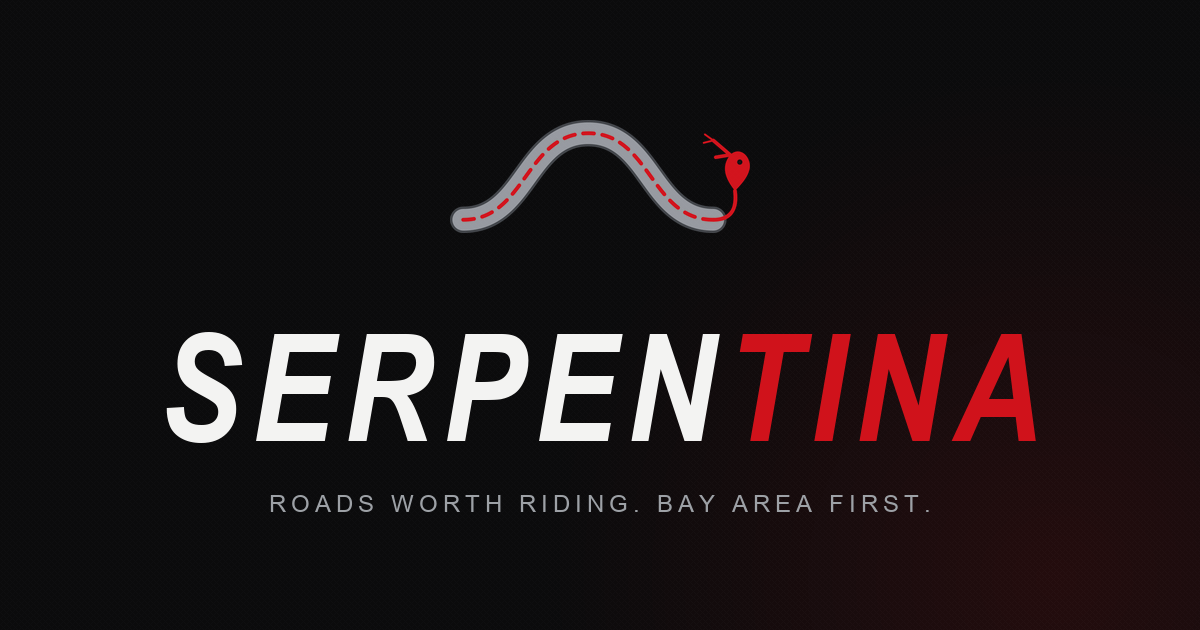
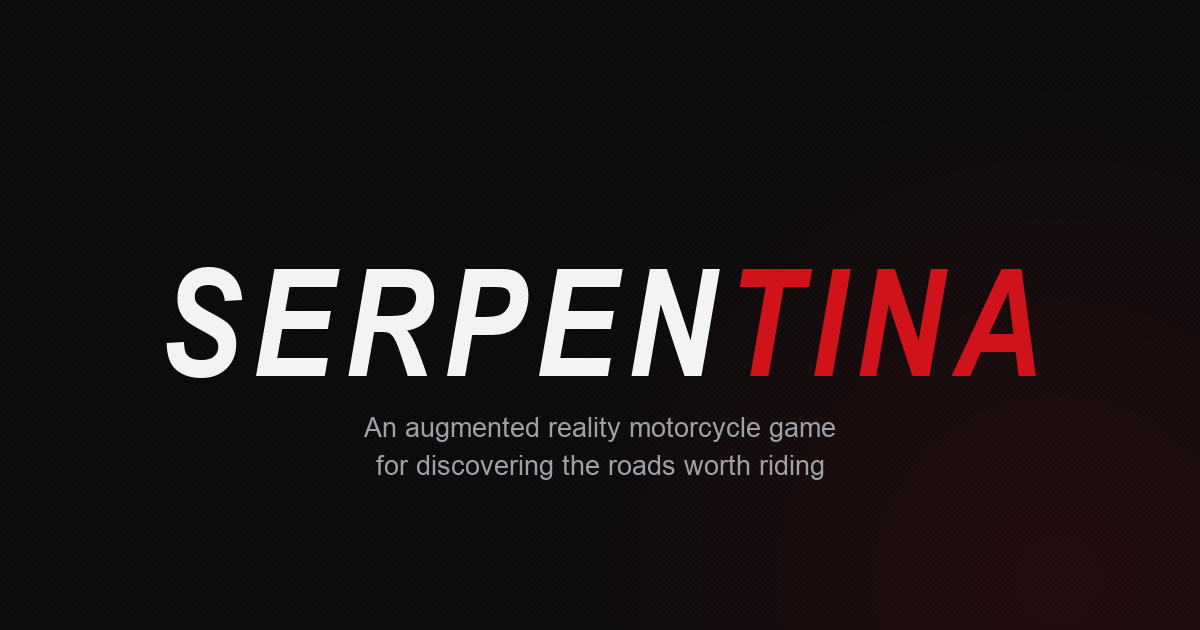
Remove draft mark, update tagline to the AR game line

Changed region(s): [[0.1233, 0.4222, 0.8633, 0.754], [0.37, 0.181, 0.6475, 0.3921], [0.2158, 0.7841, 0.7708, 0.8143]]

diff --git a/index.html b/index.html
@@ -4,10 +4,10 @@
 <meta charset="utf-8">
 <meta name="viewport" content="width=device-width, initial-scale=1">
 <title>Serpentina</title>
-<meta name="description" content="An augmented reality motorcycle game to ride the roads worth riding">
+<meta name="description" content="An augmented reality motorcycle game for discovering the roads worth riding">
 <meta name="theme-color" content="#0B0B0C">
 <meta property="og:title" content="Serpentina">
-<meta property="og:description" content="An augmented reality motorcycle game to ride the roads worth riding">
+<meta property="og:description" content="An augmented reality motorcycle game for discovering the roads worth riding">
 <meta property="og:type" content="website">
 <meta property="og:url" content="https://serpentina.app/">
 <meta property="og:image" content="https://serpentina.app/og.png">
@@ -65,7 +65,6 @@
     padding: 32px 24px;
     animation: rise .6s ease-out both;
   }
-  .mark { width: 220px; height: auto; display: block; margin-bottom: 28px; }
   h1 {
     font-family: "Barlow Condensed", "Arial Narrow", sans-serif;
     font-style: italic;
@@ -79,11 +78,12 @@
   }
   h1 span { color: var(--red); }
   p {
-    margin: 0 0 32px;
+    margin: 0 0 36px;
+    max-width: 26ch;
     color: var(--silver);
-    font-size: 15px;
-    letter-spacing: .12em;
-    text-transform: uppercase;
+    font-size: 18px;
+    line-height: 1.5;
+    letter-spacing: .01em;
   }
   a.cta {
     color: var(--white);
@@ -109,32 +109,15 @@
   @keyframes rise { from { opacity: 0; transform: translateY(8px);} to { opacity: 1; transform: none; } }
   @media (prefers-reduced-motion: reduce) { main { animation: none; } a.cta { transition: none; } }
   @media (max-width: 480px) {
-    .mark { width: 150px; margin-bottom: 20px; }
-    p { font-size: 13px; }
+    p { font-size: 16px; max-width: 22ch; }
     footer { font-size: 10px; }
   }
 </style>
 </head>
 <body>
 <main>
-  <svg class="mark" viewBox="0 0 260 120" role="img" aria-label="Serpentina mark: a winding road that becomes a snake" xmlns="http://www.w3.org/2000/svg">
-    <!-- road -->
-    <path d="M18 96 C70 96 70 24 122 24 S174 96 226 96" fill="none" stroke="#3A3D41" stroke-width="22" stroke-linecap="round"/>
-    <path d="M18 96 C70 96 70 24 122 24 S174 96 226 96" fill="none" stroke="#9DA1A6" stroke-width="18" stroke-linecap="round" opacity=".9"/>
-    <!-- centreline that leaves the road and becomes the snake -->
-    <path d="M18 96 C70 96 70 24 122 24 S174 96 226 96 C240 96 246 88 244 72" fill="none" stroke="#D0121B" stroke-width="3.2" stroke-linecap="round" stroke-dasharray="9 7"/>
-    <path d="M226 96 C240 96 246 88 244 72" fill="none" stroke="#D0121B" stroke-width="3.2" stroke-linecap="round"/>
-    <!-- head -->
-    <path d="M244 72 C236 62 232 52 240 42 C246 36 254 40 256 48 C258 56 252 64 244 72 Z" fill="#D0121B"/>
-    <!-- open jaw -->
-    <path d="M240 42 L226 30 M240 42 L228 44" stroke="#D0121B" stroke-width="3" stroke-linecap="round" fill="none"/>
-    <!-- tongue -->
-    <path d="M226 30 L219 25 M226 30 L218 32" stroke="#D0121B" stroke-width="1.6" stroke-linecap="round"/>
-    <!-- eye -->
-    <circle cx="248" cy="48" r="2.2" fill="#0B0B0C"/>
-  </svg>
   <h1>Serpen<span>tina</span></h1>
-  <p>Roads worth riding. Bay Area first.</p>
+  <p>An augmented reality motorcycle game for discovering the roads worth riding.</p>
   <a class="cta" href="mailto:jmaya.design@gmail.com?subject=Serpentina%20early%20access">Early access</a>
 </main>
 <footer>Serpentina &middot; San Francisco Bay Area</footer>
